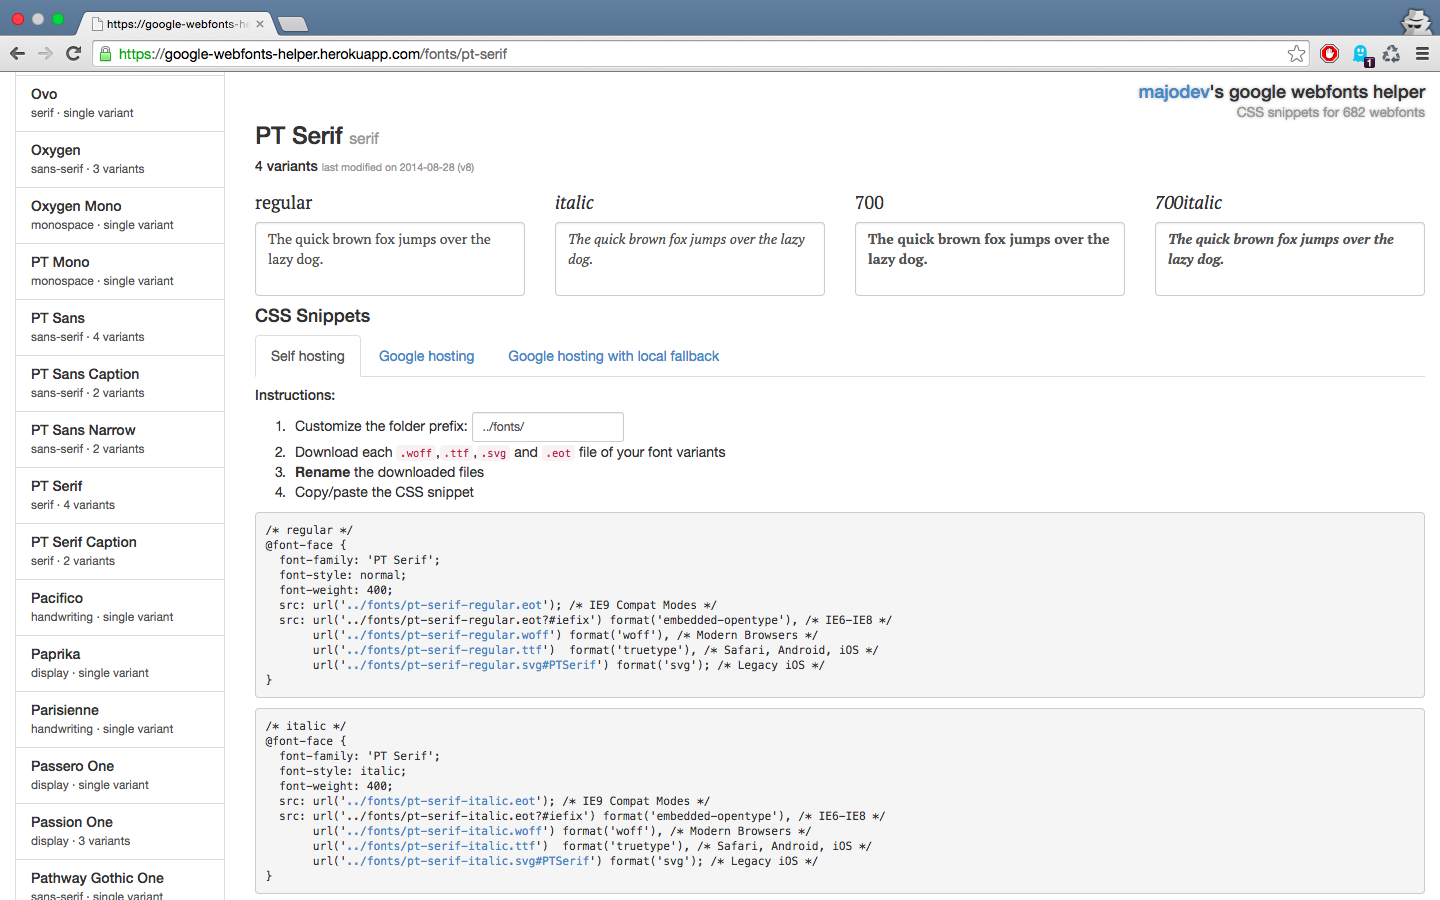
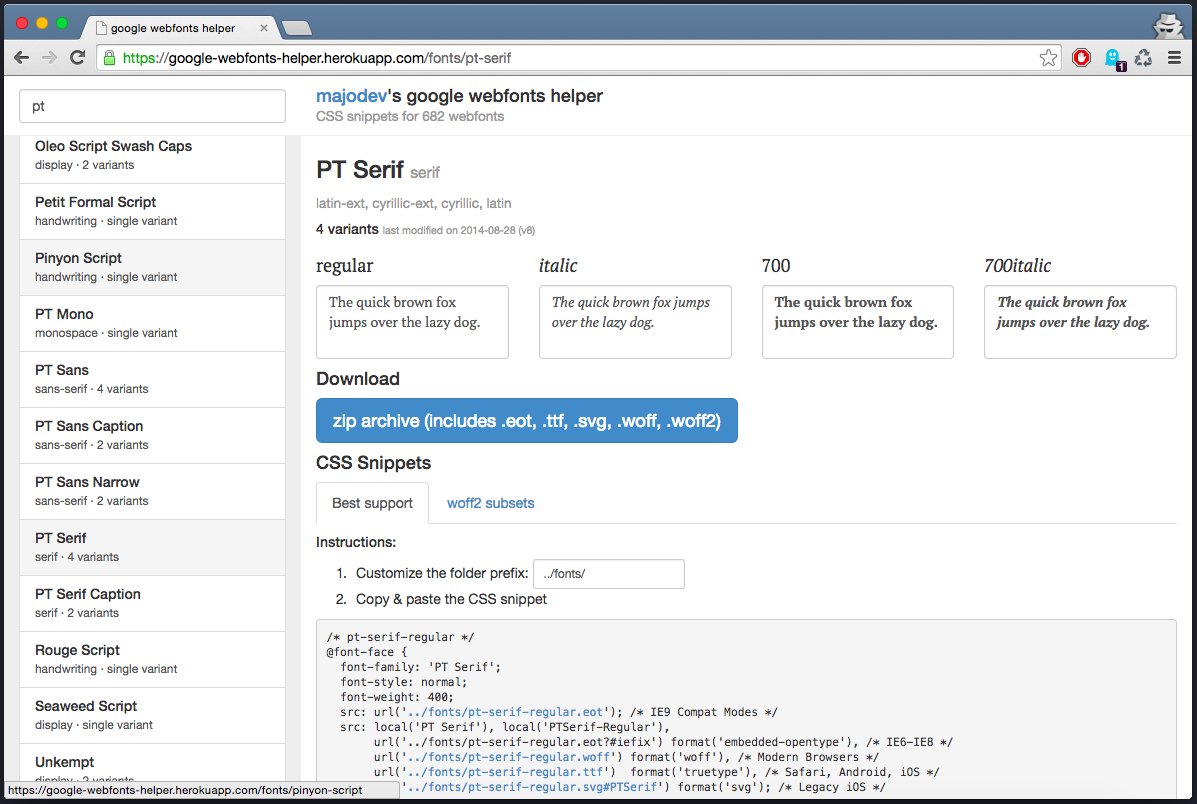
fonts-helper update

diff --git a/src/notes/google-webfonts-helper/index.md b/src/notes/google-webfonts-helper/index.md
@@ -25,9 +25,9 @@ lightbox: true
 
 Let's get this straight: The effort to host Google web fonts on your own server is immense! First of all you need to download all `.eot`, `.woff`, `.ttf` and `.svg` files, then copy them onto your server and finally paste a CSS snippet. Sounds easy? Well it *could* be, if Google *would actually provide* any direct links to download these files and a customized CSS for self-hosting them. To fix this problem without using font generation services like Font Squirrel, I decided to publish a little service called [google-webfonts-helper](https://google-webfonts-helper.herokuapp.com/fonts).
 
-The service uses Google's font API to retrieve a list of all available web fonts and fetches links to the `.eot`, `.woff`, `.ttf` and `.svg` files by parsing their hosted CSS files (and faking the `User-Agent` to get them). Hence, there is neither a need to directly host any fonts on my service, nor do I need a database (a simple `memcache` is sufficient). Here's how this looks like currently:
+The service uses Google's font API to retrieve a list of all available web fonts and fetches links to the `.eot`, `.woff`, `.ttf` and `.svg` files by parsing their hosted CSS files (and faking the `User-Agent` to get them). It downloads all font formats and creates an archive which can be downloaded. At the CSS snippets, the paths to each file can be customized by providing a prefix. Here's how this looks like currently:
 
-![google-webfonts-helper overview image](overview.png)
+![google-webfonts-helper overview image](/static/apps/google-webfonts-helper/full_view.png)
 
 Internally, I'm using the (M)EAN stack (without MongoDB) as I really needed some practice with [Angular](https://angularjs.org/) and [Express](http://expressjs.com/). Restful services are great and I can recommend anyone starting up a small project like this to take a look at the [yeoman angular-fullstack](https://github.com/DaftMonk/generator-angular-fullstack) generator. Without prior knowledge, I came up with a working prototype in less than 5 hours! Freaking productive work flow.
 
